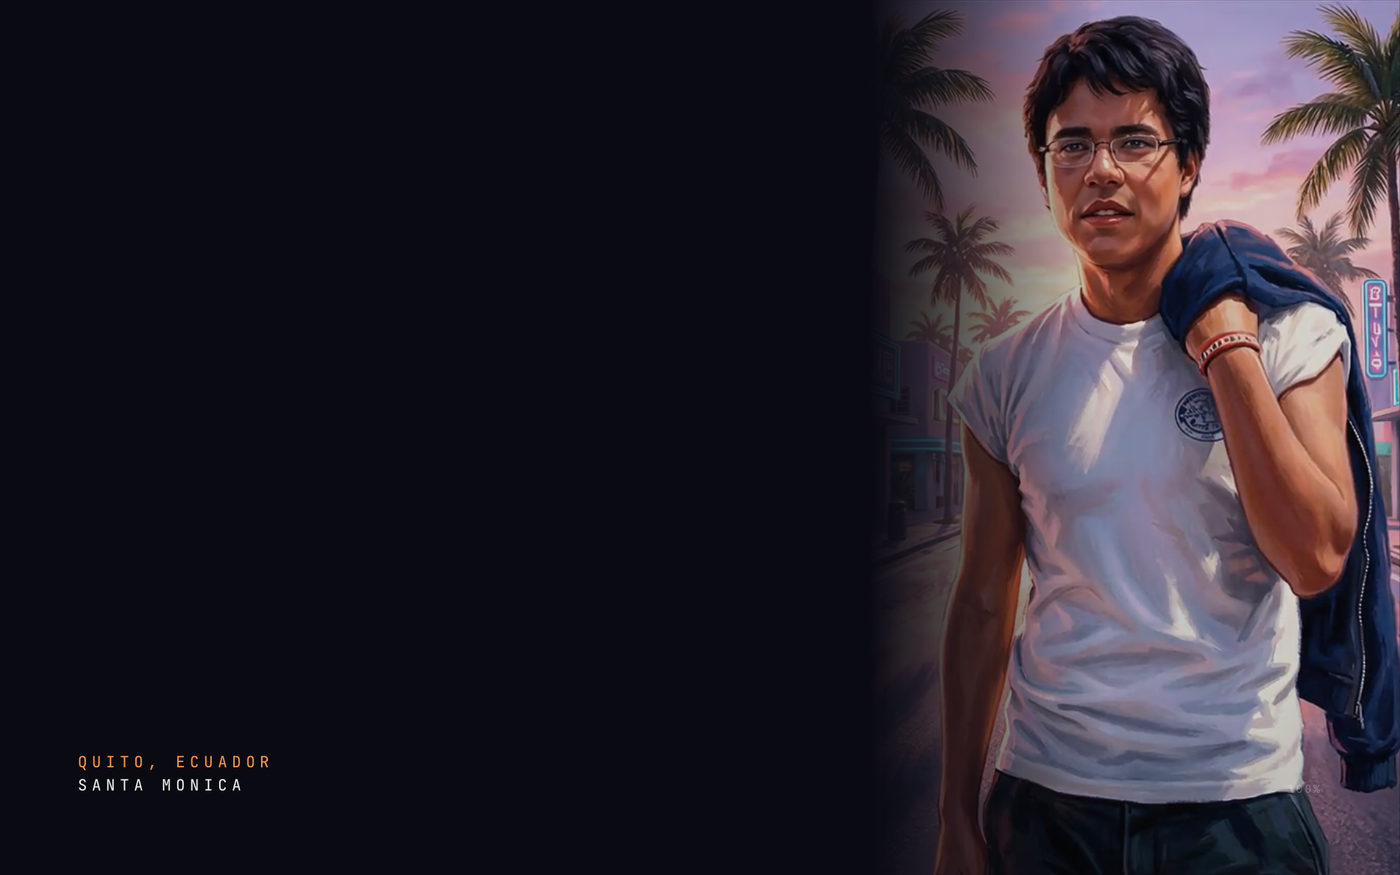
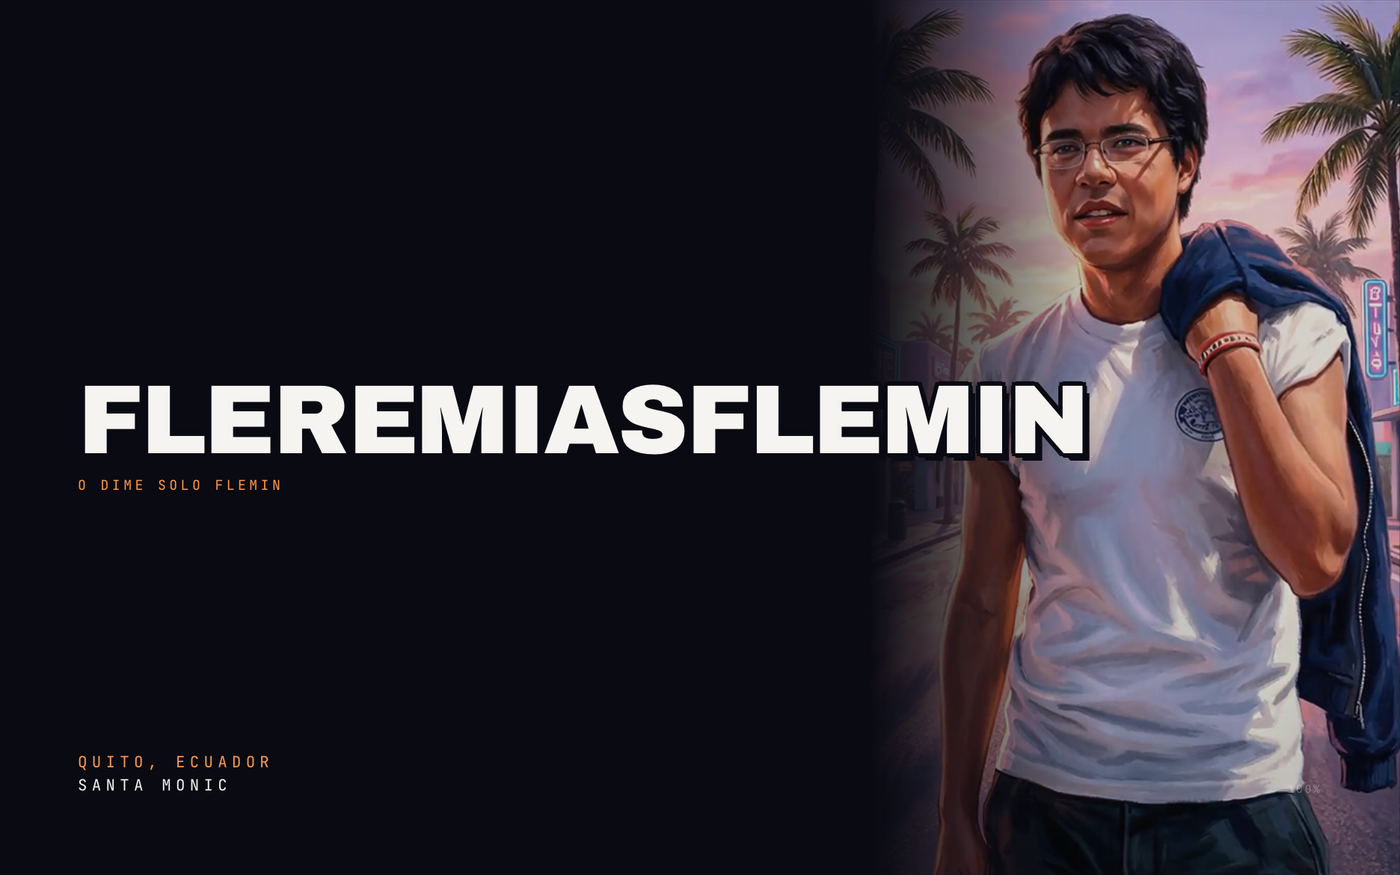
Agrandar la frase de la cinemática
A 12 px se perdía debajo del nombre. Sube a 24 en escritorio, con más
tracking y aire, para que se lea como parte del rótulo y no como un pie.

Changed region(s): [[0.0614, 0.432, 0.7986, 0.5554], [0.6757, 0.0, 0.9521, 0.3086], [0.9214, 0.0, 1.0, 0.0617]]

diff --git a/src/components/Cinematica.tsx b/src/components/Cinematica.tsx
@@ -171,7 +171,7 @@ export function Cinematica() {
         </h1>
 
         <p
-          className="letra-intro mt-4 max-w-md font-mono text-[0.78rem] uppercase tracking-[0.24em] md:text-sm"
+          className="letra-intro mt-5 max-w-xl font-mono text-base uppercase tracking-[0.26em] md:text-xl lg:text-2xl"
           style={{ animationDelay: `${400 + NOMBRE.length * 55 + 260}ms`, color: 'var(--tinta, #FF9A4D)' }}
         >
           O dime solo Flemin
